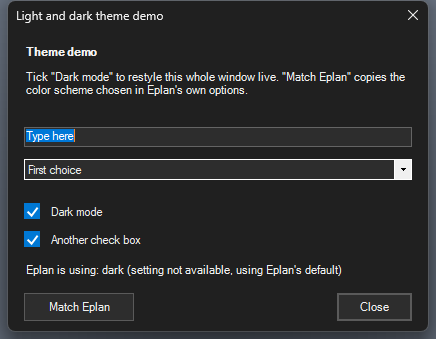
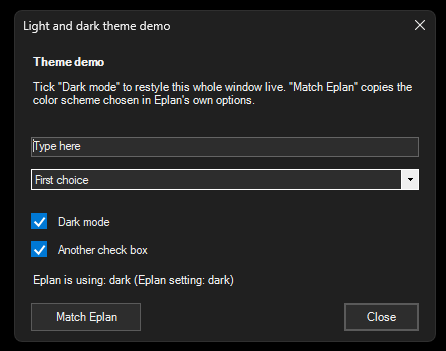
Record Eplan 2026 run of example 04; use real Eplan screenshots
Reading USER.MF.GuiColorScheme confirmed in Eplan 2026 for dark (1).
Light, automatic and Eplan 2025 still to confirm.

diff --git a/examples/04-light-dark-theme/LightDarkTheme.cs b/examples/04-light-dark-theme/LightDarkTheme.cs
@@ -3,7 +3,7 @@
 // Purpose   : Restyle your own window live with a "Dark mode" check box, and match Eplan's own color scheme automatically.
 // You learn : Color palettes, restyling controls in a loop, custom-painted check box, dark title bar, reading an Eplan setting
 // Level     : Intermediate
-// Tested in : Compile-checked against Eplan Electric P8 2025.0.3 and 2026.0.3 (run test pending)
+// Tested in : Compile-checked against Eplan Electric P8 2025.0.3 and 2026.0.3 (run in 2026 with Eplan set to dark; 2025 and light/auto still to test)
 // Author    : Justin Walz
 // License   : MIT (see LICENSE in the repo root)
 // ============================================================

diff --git a/examples/04-light-dark-theme/README.md b/examples/04-light-dark-theme/README.md
@@ -6,7 +6,7 @@
 |------|-------|
 | ![Dark theme](screenshot-dark.png) | ![Light theme](screenshot-light.png) |
 
-_Screenshots were taken outside Eplan on a plain background. Real Eplan screenshots will replace them._
+_Both screenshots were taken from the script running in Eplan 2026. The window is a normal Windows window; it just follows the color scheme you choose._
 
 ## What it does
 
@@ -42,7 +42,7 @@ Eplan keeps the choice from its options in the setting `USER.MF.GuiColorScheme`:
 
 The script reads that setting. For 0 it asks Windows (the `AppsUseLightTheme` registry value). If anything fails, it uses dark, which is Eplan's default. This is more reliable than guessing from pixels on the screen.
 
-The meaning of the values comes from Eplan's own configuration files and was checked against a running Eplan 2026 that was set to dark with a stored value of 1. If you change the scheme in Eplan, Eplan may need a restart before it shows it, and the setting is what the script reads.
+The meaning of the values comes from Eplan's own configuration files. With Eplan 2026 set to dark (value 1), the script reports "Eplan setting: dark". The values 0 (automatic) and 2 (light) have not been tried inside Eplan yet. If you change the scheme in Eplan, Eplan may need a restart before it shows it, and the setting is what the script reads.
 
 ## How to load it
 
@@ -64,9 +64,11 @@ See [Getting started](../../docs/getting-started.md) if this is your first scrip
 | Eplan version | Compiles | Run in Eplan |
 |---------------|----------|--------------|
 | 2025.0.3 | Yes | Pending |
-| 2026.0.3 | Yes | Pending |
+| 2026.0.3 | Yes | Yes (Eplan set to dark) |
 
-The restyling was tested outside Eplan: tick and untick change every color as expected. Reading Eplan's setting is the part that needs a run inside Eplan. The setting and the `Settings` methods exist in both 2025 and 2026.
+Tick and untick change every color as expected, and the script correctly read Eplan 2026's dark setting. Still to confirm: Eplan set to light or automatic, and Eplan 2025. The setting and the `Settings` methods exist in both versions.
+
+On screen, text can show faint orange and blue edges in a screenshot. That is normal Windows text smoothing (ClearType), not a wrong color.
 
 ## Ideas to extend
 
